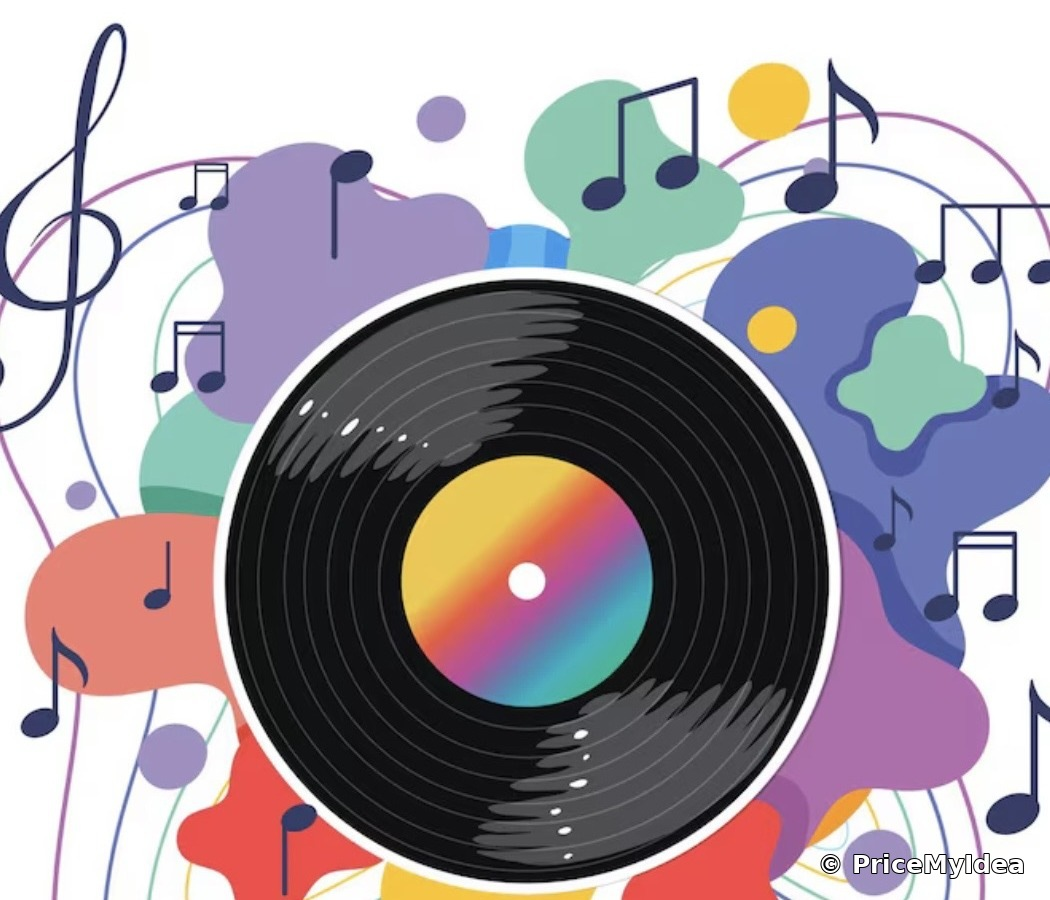
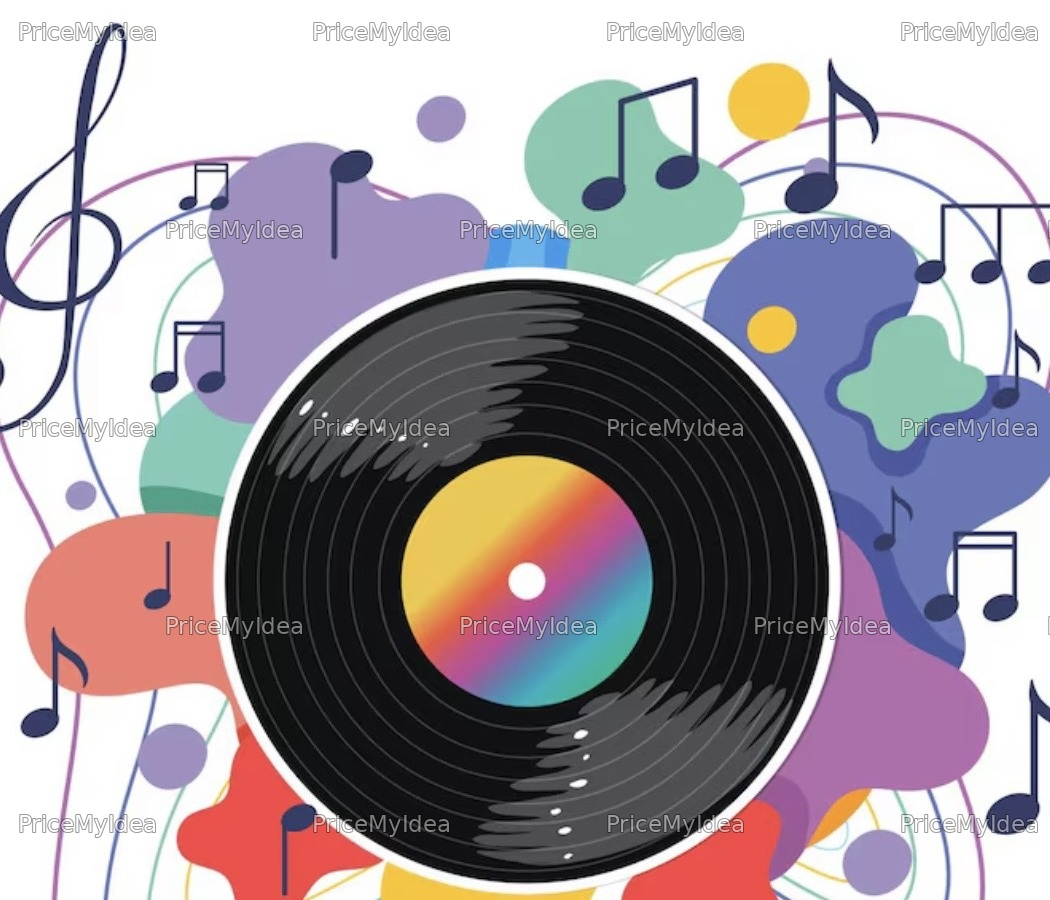
updated watermarks

diff --git a/index.html b/index.html
@@ -19,7 +19,7 @@
  <meta name="twitter:description" content="Estimate creative project costs for animation, illustration, comics, video editing, graphic design, music, websites, and writing." />
 
  <title>PriceMyIdea | Creative Project Cost Estimator</title>
- <link rel="stylesheet" href="styles.css?v=pmi-watermark-v20" />
+ <link rel="stylesheet" href="styles.css?v=pmi-watermark-v21" />
 </head>
 <body>
  <div class="page-shell">
@@ -98,34 +98,34 @@
  <div class="section-header"><h2>Popular Project Types</h2><a class="muted-link" href="pages/pricing-guides.html">View All →</a></div>
  <div class="project-grid">
  <article class="project-card animation-card blank-card">
- <div class="thumb" style="background-image:url('assets/2d-animation-character-rig.jpg?v=watermark-v20'); background-position:center 34%; background-size:cover;"></div>
+ <div class="thumb" style="background-image:url('assets/2d-animation-character-rig.jpg?v=watermark-v21'); background-position:center 34%; background-size:cover;"></div>
  <div class="body"><div><h3>2D Animation</h3><p>$1,200 to $3,800</p></div><div class="arrow">→</div></div>
  </article>
  <article class="project-card illustration-card">
- <div class="thumb" style="background-image:url('assets/illustration-cover-cropped.jpg?v=watermark-v20');"></div>
+ <div class="thumb" style="background-image:url('assets/illustration-cover-cropped.jpg?v=watermark-v21');"></div>
  <div class="body"><div><h3>Illustration</h3><p>$80 to $600</p></div><div class="arrow">→</div></div>
  </article>
  <article class="project-card comic-card">
- <div class="thumb" style="background-image:url('assets/comic-manga-cover.jpg?v=watermark-v20'); background-position:center 42%;"></div>
+ <div class="thumb" style="background-image:url('assets/comic-manga-cover.jpg?v=watermark-v21'); background-position:center 42%;"></div>
  <div class="body"><div><h3>Comic / Manga</h3><p>$300 to $1,500</p></div><div class="arrow">→</div></div>
  </article>
  <article class="project-card video-card">
- <div class="thumb" style="background-image:url('assets/video-editing-cover.jpg?v=watermark-v20'); background-position:center center;"></div>
+ <div class="thumb" style="background-image:url('assets/video-editing-cover.jpg?v=watermark-v21'); background-position:center center;"></div>
  <div class="body"><div><h3>Video Editing</h3><p>$200 to $1,200</p></div><div class="arrow">→</div></div>
  </article>
  <article class="project-card graphic-card">
- <div class="thumb" style="background-image:url('assets/graphic-design-cover.jpg?v=watermark-v20'); background-position:center 38%;"></div>
+ <div class="thumb" style="background-image:url('assets/graphic-design-cover.jpg?v=watermark-v21'); background-position:center 38%;"></div>
  <div class="body"><div><h3>Graphic Design</h3><p>$150 to $800</p></div><div class="arrow">→</div></div>
  </article>
  <article class="project-card music-card">
- <div class="thumb" style="background-image:url('assets/music-cover.jpg?v=watermark-v20'); background-position:center center;"></div>
+ <div class="thumb" style="background-image:url('assets/music-cover.jpg?v=watermark-v21'); background-position:center center;"></div>
  <div class="body"><div><h3>Music</h3><p>$100 to $800</p></div><div class="arrow">→</div></div>
  </article>
  </div>
  </section>
 
  <section class="cta-row">
- <article class="card cta-card image" style="background-image:url('assets/frontpage-bg-cropped.jpg?v=watermark-v20'); background-position:center 18%;">
+ <article class="card cta-card image" style="background-image:url('assets/frontpage-bg-cropped.jpg?v=watermark-v21'); background-position:center 18%;">
  <h3>Hiring a freelancer?</h3>
  <p>Get a realistic price range, see detailed breakdowns, and find the right talent for your project.</p>
  <a class="btn btn-primary" href="pages/calculator.html">Calculate My Project →</a>

diff --git a/pricemyproject-preview.html b/pricemyproject-preview.html
@@ -19,7 +19,7 @@
  <meta name="twitter:description" content="Estimate creative project costs for animation, illustration, comics, video editing, graphic design, music, websites, and writing." />
 
  <title>PriceMyIdea | Creative Project Cost Estimator</title>
- <link rel="stylesheet" href="styles.css?v=pmi-watermark-v20" />
+ <link rel="stylesheet" href="styles.css?v=pmi-watermark-v21" />
 </head>
 <body>
  <div class="page-shell">
@@ -98,34 +98,34 @@
  <div class="section-header"><h2>Popular Project Types</h2><a class="muted-link" href="pages/pricing-guides.html">View All →</a></div>
  <div class="project-grid">
  <article class="project-card animation-card blank-card">
- <div class="thumb" style="background-image:url('assets/2d-animation-character-rig.jpg?v=watermark-v20'); background-position:center 34%; background-size:cover;"></div>
+ <div class="thumb" style="background-image:url('assets/2d-animation-character-rig.jpg?v=watermark-v21'); background-position:center 34%; background-size:cover;"></div>
  <div class="body"><div><h3>2D Animation</h3><p>$1,200 to $3,800</p></div><div class="arrow">→</div></div>
  </article>
  <article class="project-card illustration-card">
- <div class="thumb" style="background-image:url('assets/illustration-cover-cropped.jpg?v=watermark-v20');"></div>
+ <div class="thumb" style="background-image:url('assets/illustration-cover-cropped.jpg?v=watermark-v21');"></div>
  <div class="body"><div><h3>Illustration</h3><p>$80 to $600</p></div><div class="arrow">→</div></div>
  </article>
  <article class="project-card comic-card">
- <div class="thumb" style="background-image:url('assets/comic-manga-cover.jpg?v=watermark-v20'); background-position:center 42%;"></div>
+ <div class="thumb" style="background-image:url('assets/comic-manga-cover.jpg?v=watermark-v21'); background-position:center 42%;"></div>
  <div class="body"><div><h3>Comic / Manga</h3><p>$300 to $1,500</p></div><div class="arrow">→</div></div>
  </article>
  <article class="project-card video-card">
- <div class="thumb" style="background-image:url('assets/video-editing-cover.jpg?v=watermark-v20'); background-position:center center;"></div>
+ <div class="thumb" style="background-image:url('assets/video-editing-cover.jpg?v=watermark-v21'); background-position:center center;"></div>
  <div class="body"><div><h3>Video Editing</h3><p>$200 to $1,200</p></div><div class="arrow">→</div></div>
  </article>
  <article class="project-card graphic-card">
- <div class="thumb" style="background-image:url('assets/graphic-design-cover.jpg?v=watermark-v20'); background-position:center 38%;"></div>
+ <div class="thumb" style="background-image:url('assets/graphic-design-cover.jpg?v=watermark-v21'); background-position:center 38%;"></div>
  <div class="body"><div><h3>Graphic Design</h3><p>$150 to $800</p></div><div class="arrow">→</div></div>
  </article>
  <article class="project-card music-card">
- <div class="thumb" style="background-image:url('assets/music-cover.jpg?v=watermark-v20'); background-position:center center;"></div>
+ <div class="thumb" style="background-image:url('assets/music-cover.jpg?v=watermark-v21'); background-position:center center;"></div>
  <div class="body"><div><h3>Music</h3><p>$100 to $800</p></div><div class="arrow">→</div></div>
  </article>
  </div>
  </section>
 
  <section class="cta-row">
- <article class="card cta-card image" style="background-image:url('assets/frontpage-bg-cropped.jpg?v=watermark-v20'); background-position:center 18%;">
+ <article class="card cta-card image" style="background-image:url('assets/frontpage-bg-cropped.jpg?v=watermark-v21'); background-position:center 18%;">
  <h3>Hiring a freelancer?</h3>
  <p>Get a realistic price range, see detailed breakdowns, and find the right talent for your project.</p>
  <a class="btn btn-primary" href="pages/calculator.html">Calculate My Project →</a>

diff --git a/pages/calculator.html b/pages/calculator.html
@@ -1,6 +1,6 @@
 <!DOCTYPE html>
 
-<html lang="en"><head><meta charset="utf-8"/><meta content="width=device-width, initial-scale=1.0" name="viewport"/><title>Project Cost Calculator | PriceMyIdea</title><link href="../styles.css?v=pmi-watermark-v20" rel="stylesheet"/></head><body><header class="topbar"><div class="container nav"><a class="brand" href="../index.html"><svg class="brand-mark brand-bulb" viewBox="0 0 64 64" aria-hidden="true">
+<html lang="en"><head><meta charset="utf-8"/><meta content="width=device-width, initial-scale=1.0" name="viewport"/><title>Project Cost Calculator | PriceMyIdea</title><link href="../styles.css?v=pmi-watermark-v21" rel="stylesheet"/></head><body><header class="topbar"><div class="container nav"><a class="brand" href="../index.html"><svg class="brand-mark brand-bulb" viewBox="0 0 64 64" aria-hidden="true">
   <defs>
     <linearGradient id="brandGlow" x1="0" y1="0" x2="1" y2="1">
       <stop offset="0%" stop-color="#ff9f1c"/><stop offset="48%" stop-color="#ffd166"/><stop offset="52%" stop-color="#56c7ff"/><stop offset="100%" stop-color="#1e7cff"/>

diff --git a/pages/pricing-guides.html b/pages/pricing-guides.html
@@ -1,4 +1,4 @@
-<!DOCTYPE html><html lang="en"><head><meta charset="UTF-8"><meta name="viewport" content="width=device-width, initial-scale=1.0"><title>Creative Pricing Guides | PriceMyIdea</title><link rel="stylesheet" href="../styles.css?v=pmi-watermark-v20"></head><body>
+<!DOCTYPE html><html lang="en"><head><meta charset="UTF-8"><meta name="viewport" content="width=device-width, initial-scale=1.0"><title>Creative Pricing Guides | PriceMyIdea</title><link rel="stylesheet" href="../styles.css?v=pmi-watermark-v21"></head><body>
 <header class="topbar">
  <div class="container nav">
  <a class="brand" href="../index.html">

diff --git a/pages/results.html b/pages/results.html
@@ -1,5 +1,5 @@
 <!DOCTYPE html>
-<html lang="en"><head><meta charset="utf-8"/><meta content="width=device-width, initial-scale=1.0" name="viewport"/><title>Project Estimate Results | PriceMyIdea</title><link href="../styles.css?v=pmi-watermark-v20" rel="stylesheet"/></head><body>
+<html lang="en"><head><meta charset="utf-8"/><meta content="width=device-width, initial-scale=1.0" name="viewport"/><title>Project Estimate Results | PriceMyIdea</title><link href="../styles.css?v=pmi-watermark-v21" rel="stylesheet"/></head><body>
 <header class="topbar">
 <div class="container nav">
 <a class="brand" href="../index.html">

diff --git a/pages/about.html b/pages/about.html
@@ -1,4 +1,4 @@
-<!DOCTYPE html><html lang="en"><head><meta charset="UTF-8"><meta name="viewport" content="width=device-width, initial-scale=1.0"><title>About PriceMyIdea</title><link rel="stylesheet" href="../styles.css?v=pmi-watermark-v20"></head><body>
+<!DOCTYPE html><html lang="en"><head><meta charset="UTF-8"><meta name="viewport" content="width=device-width, initial-scale=1.0"><title>About PriceMyIdea</title><link rel="stylesheet" href="../styles.css?v=pmi-watermark-v21"></head><body>
 <header class="topbar">
  <div class="container nav">
  <a class="brand" href="../index.html">

diff --git a/styles.css b/styles.css
@@ -778,6 +778,4 @@ img { max-width: 100%; display: block; }
 @media(max-width:900px){.brand-text{display:inline-flex!important;white-space:nowrap!important}}
 
 
-/* v20: small, unobtrusive homepage watermark only */
-.hero::after{content:"© PriceMyIdea";position:absolute;right:16px;bottom:14px;left:auto;top:auto;z-index:2;pointer-events:none;color:rgba(255,255,255,.75);text-shadow:0 1px 3px #000;font-size:12px;font-weight:600;background:none;opacity:1;}
-.hero .container{position:relative;z-index:2;}
+

diff --git a/pages/faq.html b/pages/faq.html
@@ -4,7 +4,7 @@
  <meta charset="UTF-8">
  <meta name="viewport" content="width=device-width, initial-scale=1.0">
  <title>FAQ | PriceMyIdea</title>
- <link rel="stylesheet" href="../styles.css?v=pmi-watermark-v20">
+ <link rel="stylesheet" href="../styles.css?v=pmi-watermark-v21">
  <style>
  .faq-wrap{max-width:980px;margin:0 auto}
  .faq-list{display:grid;gap:14px}
